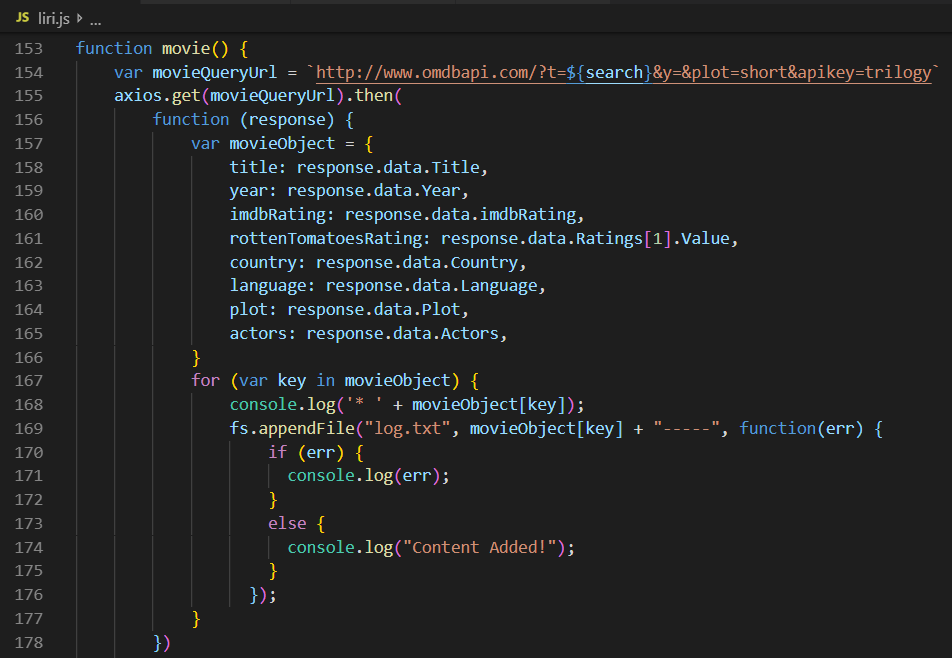
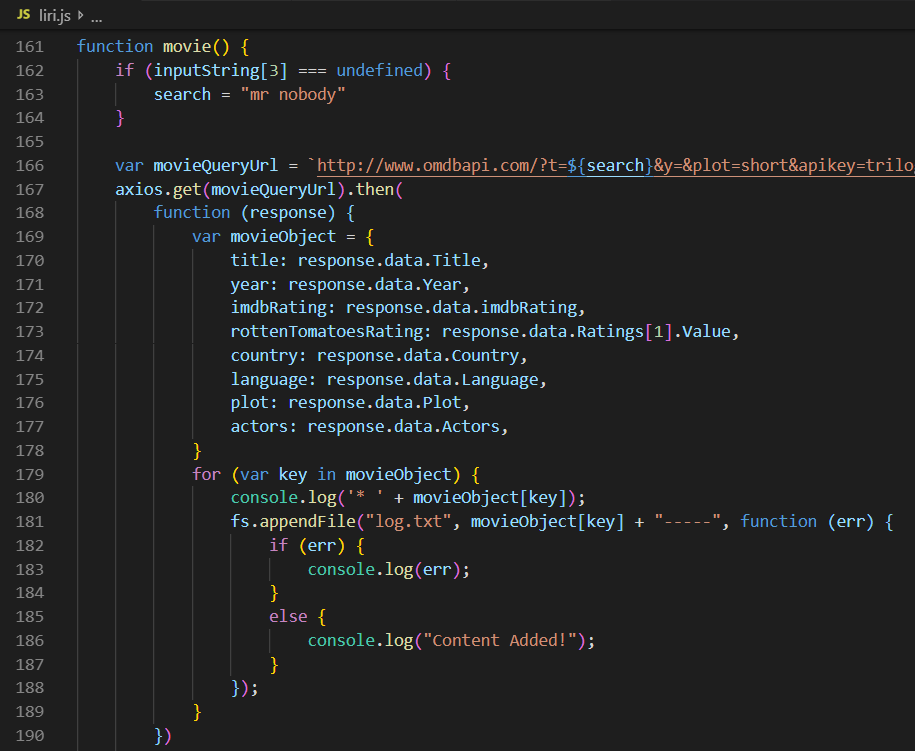
fixed bug with defaults giving wrong commands

diff --git a/liri.js b/liri.js
@@ -55,8 +55,17 @@ function log() {
                 console.log("Content Added!");
             }
         });
-    } else {
+    } else if (searchType === "do-what-it-says") {
         fs.appendFile("log.txt", "\n" + "NEW COMMAND: node liri.js do-what-it-says; " + "\n", function (err) {
+            if (err) {
+                console.log(err);
+            }
+            else {
+                console.log("Content Added!");
+            }
+        });
+    } else {
+        fs.appendFile("log.txt", "\n" + "NEW COMMAND: node liri.js " + searchType + " Default" + "; " + "\n", function (err) {
             if (err) {
                 console.log(err);
             }

diff --git a/README.md b/README.md
@@ -18,7 +18,7 @@ The third section is our list of functions. The first is log (used before all se
 
 <!-- Give start-to-finish instructions on how to run the app -->
 
-To run the app, navigate to the file in your command line, and type "node liri.js." You can follow that with five possible options: concert-this, spotify-this-song, movie-this, do-what-it-says, and change. You can simply follow concert-this, spotify-this-song, or movie-this with a search you want to make about a band/artist, song, or movie, respectively. No need to worry about spaces, hyphens, or quotation marks for these searches. Just type it out normally with spaces and the app will grab your search, no problem. For instance, if you wanted to do a search for the singer Carrie Underwood, you would type: node liri.js concert-this Carrie Underwood. If you wanted to do a search for the song Dream On, you would type: node liri.js spotify-this-song Dream On. If you wanted to do a search for the movie Inside Out, you would type: node liri.js movie-this Inside Out.
+To run the app, navigate to the file in your command line, and type "node liri.js." You can follow that with five possible options: concert-this, spotify-this-song, movie-this, do-what-it-says, and change. You can simply follow concert-this, spotify-this-song, or movie-this with a search you want to make about a band/artist, song, or movie, respectively. No need to worry about spaces, hyphens, or quotation marks for these searches. Just type it out normally with spaces and the app will grab your search, no problem. For instance, if you wanted to do a search for the singer Carrie Underwood, you would type: node liri.js concert-this Carrie Underwood. If you wanted to do a search for the song Dream On, you would type: node liri.js spotify-this-song Dream On. If you wanted to do a search for the movie Inside Out, you would type: node liri.js movie-this Inside Out. If you don't put in a search term for any of these searches, it will default search to the band "Switchfoot," the song "Welcome to the Black Parade," and the movie "Mr Nobody."
 
 If you use the do-what-it-says command, you don't need to type out a search. The app will read the random.txt file to determine which search type it should use, and what it should search for. Simple type: node liri.js do-what-it-says.
 
